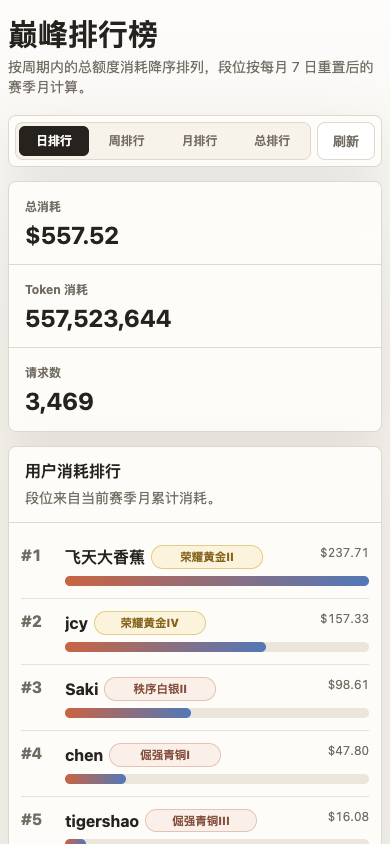
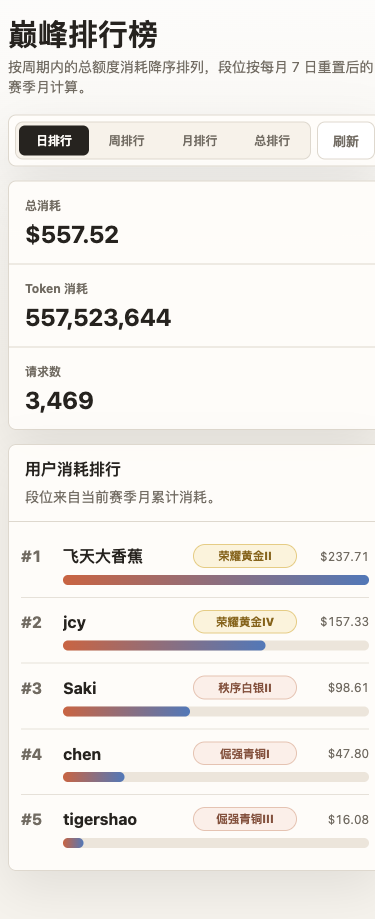
Fix mobile rank row layout

diff --git a/public/styles.css b/public/styles.css
@@ -489,7 +489,8 @@ h2 {
   }
 
   .rank-row {
-    grid-template-columns: 42px var(--rank-name-width) var(--tier-width) max-content;
+    --rank-value-width: 76px;
+    grid-template-columns: 42px minmax(0, 1fr) var(--tier-width) var(--rank-value-width);
     grid-template-rows: auto auto;
     align-items: center;
     gap: 7px 9px;
@@ -506,6 +507,7 @@ h2 {
   .rank-name {
     grid-column: 2;
     grid-row: 1;
+    max-width: 100%;
   }
 
   .rank-tier {
@@ -590,9 +592,9 @@ h2 {
   }
 
   .rank-row {
-    --rank-name-width: clamp(58px, 18vw, 84px);
     --tier-width: 104px;
-    grid-template-columns: 36px var(--rank-name-width) var(--tier-width) max-content;
+    --rank-value-width: 66px;
+    grid-template-columns: 36px minmax(0, 1fr) var(--tier-width) var(--rank-value-width);
     gap: 7px 6px;
   }
 
